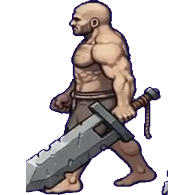
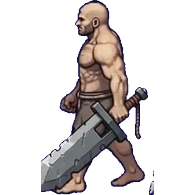
BUILD 437: new sword walk art for right/left from user

Changed region(s): [[0.1231, 0.0, 0.8615, 1.0], [0.4923, 0.7692, 0.5231, 0.8], [0.4615, 0.7385, 0.4923, 0.7692]]

diff --git a/index.html b/index.html
@@ -1,1 +1,1 @@
-<!doctype html><html lang="en"><head><!-- BUILD309-VIEWPORT-FIX-MARKER --><meta charset="UTF-8"><meta name="viewport" content="width=device-width, initial-scale=1.0, maximum-scale=1.0, user-scalable=no"><meta name="theme-color" content="#17362e"><link rel="icon" type="image/svg+xml" href="favicon.svg"><meta name="description" content="Explore Mosslight Crossing in the Adventure Game field journal."><title>Adventure Game — Mosslight Crossing</title></head><body><div id="root"></div><script>window.__AG_BUILD="436";(function(){var shown=false;function code(m){var h=0,s=window.__AG_BUILD+"|"+m;for(var i=0;i<s.length;i++){h=(Math.imul(h,31)+s.charCodeAt(i))|0;}return "AG"+window.__AG_BUILD+"-"+(h>>>0).toString(36).toUpperCase().padStart(6,"0").slice(-5);}function show(m,k){if(shown||window.__agBooted)return;shown=true;var d=document.createElement("div");d.id="ag-boot-crash";var p=document.createElement("div");p.className="ag-boot-panel";var t=document.createElement("div");t.className="ag-boot-title";t.textContent="\u26a0 GAME FAILED TO START";var c=document.createElement("div");c.className="ag-boot-code";c.textContent=code(String(m));var g=document.createElement("div");g.className="ag-boot-msg";g.textContent=String(m).slice(0,300);var n=document.createElement("div");n.className="ag-boot-kind";n.textContent=k;var b=document.createElement("button");b.textContent="Reload game";b.onclick=function(){location.reload();};p.appendChild(t);p.appendChild(c);p.appendChild(g);p.appendChild(n);p.appendChild(b);d.appendChild(p);document.body.appendChild(d);}window.addEventListener("error",function(e){if(e.target&&e.target!==window)return;show(e.message||"script error","boot error");},true);window.addEventListener("unhandledrejection",function(e){var r=e.reason;show((r&&(r.message||r))||"rejection","boot rejection");});setTimeout(function(){if(!window.__agBooted)show("The game did not finish loading in time.","load timeout");},20000);})();</script><style>#ag-boot-crash{position:fixed;inset:0;z-index:99999;background:#0d1a16;display:flex;align-items:center;justify-content:center;padding:24px}#ag-boot-crash .ag-boot-panel{max-width:420px;width:100%;background:#14261f;border:1px solid #2c4a3e;border-radius:12px;padding:24px;text-align:center;color:#e8f0e9;font-family:system-ui,sans-serif}#ag-boot-crash .ag-boot-title{font-size:20px;font-weight:800;letter-spacing:.5px}#ag-boot-crash .ag-boot-code{font-family:monospace;font-size:22px;color:#ffd75e;margin:12px 0;letter-spacing:1px}#ag-boot-crash .ag-boot-msg{font-size:13px;color:#b9c9bd;word-break:break-word}#ag-boot-crash .ag-boot-kind{font-size:11px;color:#7d8f83;margin-top:8px;text-transform:uppercase;letter-spacing:1px}#ag-boot-crash button{margin-top:16px;background:#e8a33d;border:0;border-radius:8px;padding:10px 22px;font-size:15px;font-weight:700;color:#231603;cursor:pointer}</style><script type="module" src="/src/main.tsx"></script></body></html>
+<!doctype html><html lang="en"><head><!-- BUILD309-VIEWPORT-FIX-MARKER --><meta charset="UTF-8"><meta name="viewport" content="width=device-width, initial-scale=1.0, maximum-scale=1.0, user-scalable=no"><meta name="theme-color" content="#17362e"><link rel="icon" type="image/svg+xml" href="favicon.svg"><meta name="description" content="Explore Mosslight Crossing in the Adventure Game field journal."><title>Adventure Game — Mosslight Crossing</title></head><body><div id="root"></div><script>window.__AG_BUILD="437";(function(){var shown=false;function code(m){var h=0,s=window.__AG_BUILD+"|"+m;for(var i=0;i<s.length;i++){h=(Math.imul(h,31)+s.charCodeAt(i))|0;}return "AG"+window.__AG_BUILD+"-"+(h>>>0).toString(36).toUpperCase().padStart(6,"0").slice(-5);}function show(m,k){if(shown||window.__agBooted)return;shown=true;var d=document.createElement("div");d.id="ag-boot-crash";var p=document.createElement("div");p.className="ag-boot-panel";var t=document.createElement("div");t.className="ag-boot-title";t.textContent="\u26a0 GAME FAILED TO START";var c=document.createElement("div");c.className="ag-boot-code";c.textContent=code(String(m));var g=document.createElement("div");g.className="ag-boot-msg";g.textContent=String(m).slice(0,300);var n=document.createElement("div");n.className="ag-boot-kind";n.textContent=k;var b=document.createElement("button");b.textContent="Reload game";b.onclick=function(){location.reload();};p.appendChild(t);p.appendChild(c);p.appendChild(g);p.appendChild(n);p.appendChild(b);d.appendChild(p);document.body.appendChild(d);}window.addEventListener("error",function(e){if(e.target&&e.target!==window)return;show(e.message||"script error","boot error");},true);window.addEventListener("unhandledrejection",function(e){var r=e.reason;show((r&&(r.message||r))||"rejection","boot rejection");});setTimeout(function(){if(!window.__agBooted)show("The game did not finish loading in time.","load timeout");},20000);})();</script><style>#ag-boot-crash{position:fixed;inset:0;z-index:99999;background:#0d1a16;display:flex;align-items:center;justify-content:center;padding:24px}#ag-boot-crash .ag-boot-panel{max-width:420px;width:100%;background:#14261f;border:1px solid #2c4a3e;border-radius:12px;padding:24px;text-align:center;color:#e8f0e9;font-family:system-ui,sans-serif}#ag-boot-crash .ag-boot-title{font-size:20px;font-weight:800;letter-spacing:.5px}#ag-boot-crash .ag-boot-code{font-family:monospace;font-size:22px;color:#ffd75e;margin:12px 0;letter-spacing:1px}#ag-boot-crash .ag-boot-msg{font-size:13px;color:#b9c9bd;word-break:break-word}#ag-boot-crash .ag-boot-kind{font-size:11px;color:#7d8f83;margin-top:8px;text-transform:uppercase;letter-spacing:1px}#ag-boot-crash button{margin-top:16px;background:#e8a33d;border:0;border-radius:8px;padding:10px 22px;font-size:15px;font-weight:700;color:#231603;cursor:pointer}</style><script type="module" src="/src/main.tsx"></script></body></html>
